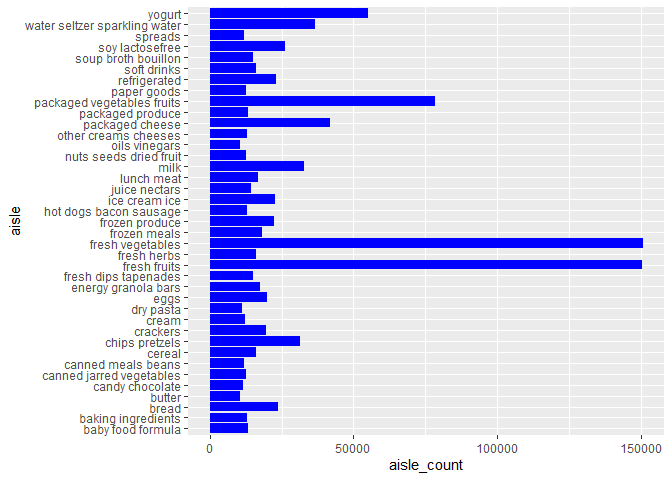
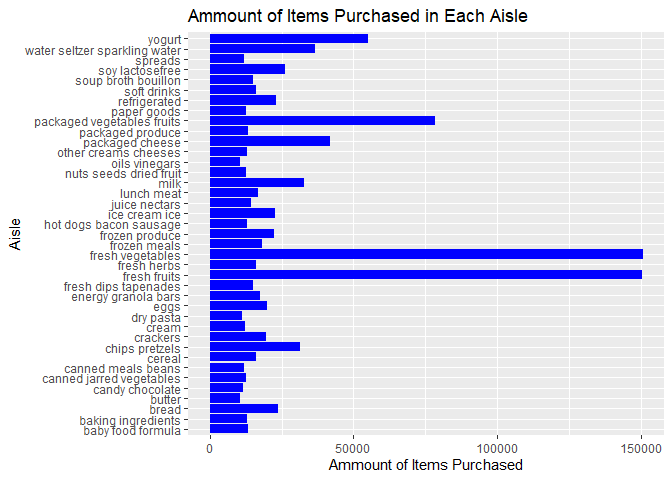
Improved graph.

Changed region(s): [[0.0312, 0.0, 0.9688, 0.9062], [0.5, 0.9375, 0.7812, 1.0], [0.0, 0.4375, 0.0312, 0.5312]]

diff --git a/p8105_hw3_mrc2229.md b/p8105_hw3_mrc2229.md
@@ -31,9 +31,14 @@ Plot of number of items ordered in each aisle
 items_per_aisle_plot = instacart %>%
   count(aisle,name="aisle_count") %>%
   filter(aisle_count>10000) %>%
-  arrange(desc(aisle)) %>%
+  arrange (desc(aisle)) %>%
   ggplot(aes(x=aisle, y=aisle_count)) +
-  geom_bar(stat="identity", fill="blue")
+  geom_bar(stat="identity", fill="blue") +
+  labs(
+    title = "Ammount of Items Purchased in Each Aisle",
+    x = "Aisle",
+    y ="Ammount of Items Purchased"
+  )
 
 items_per_aisle_plot + coord_flip()
 ```
